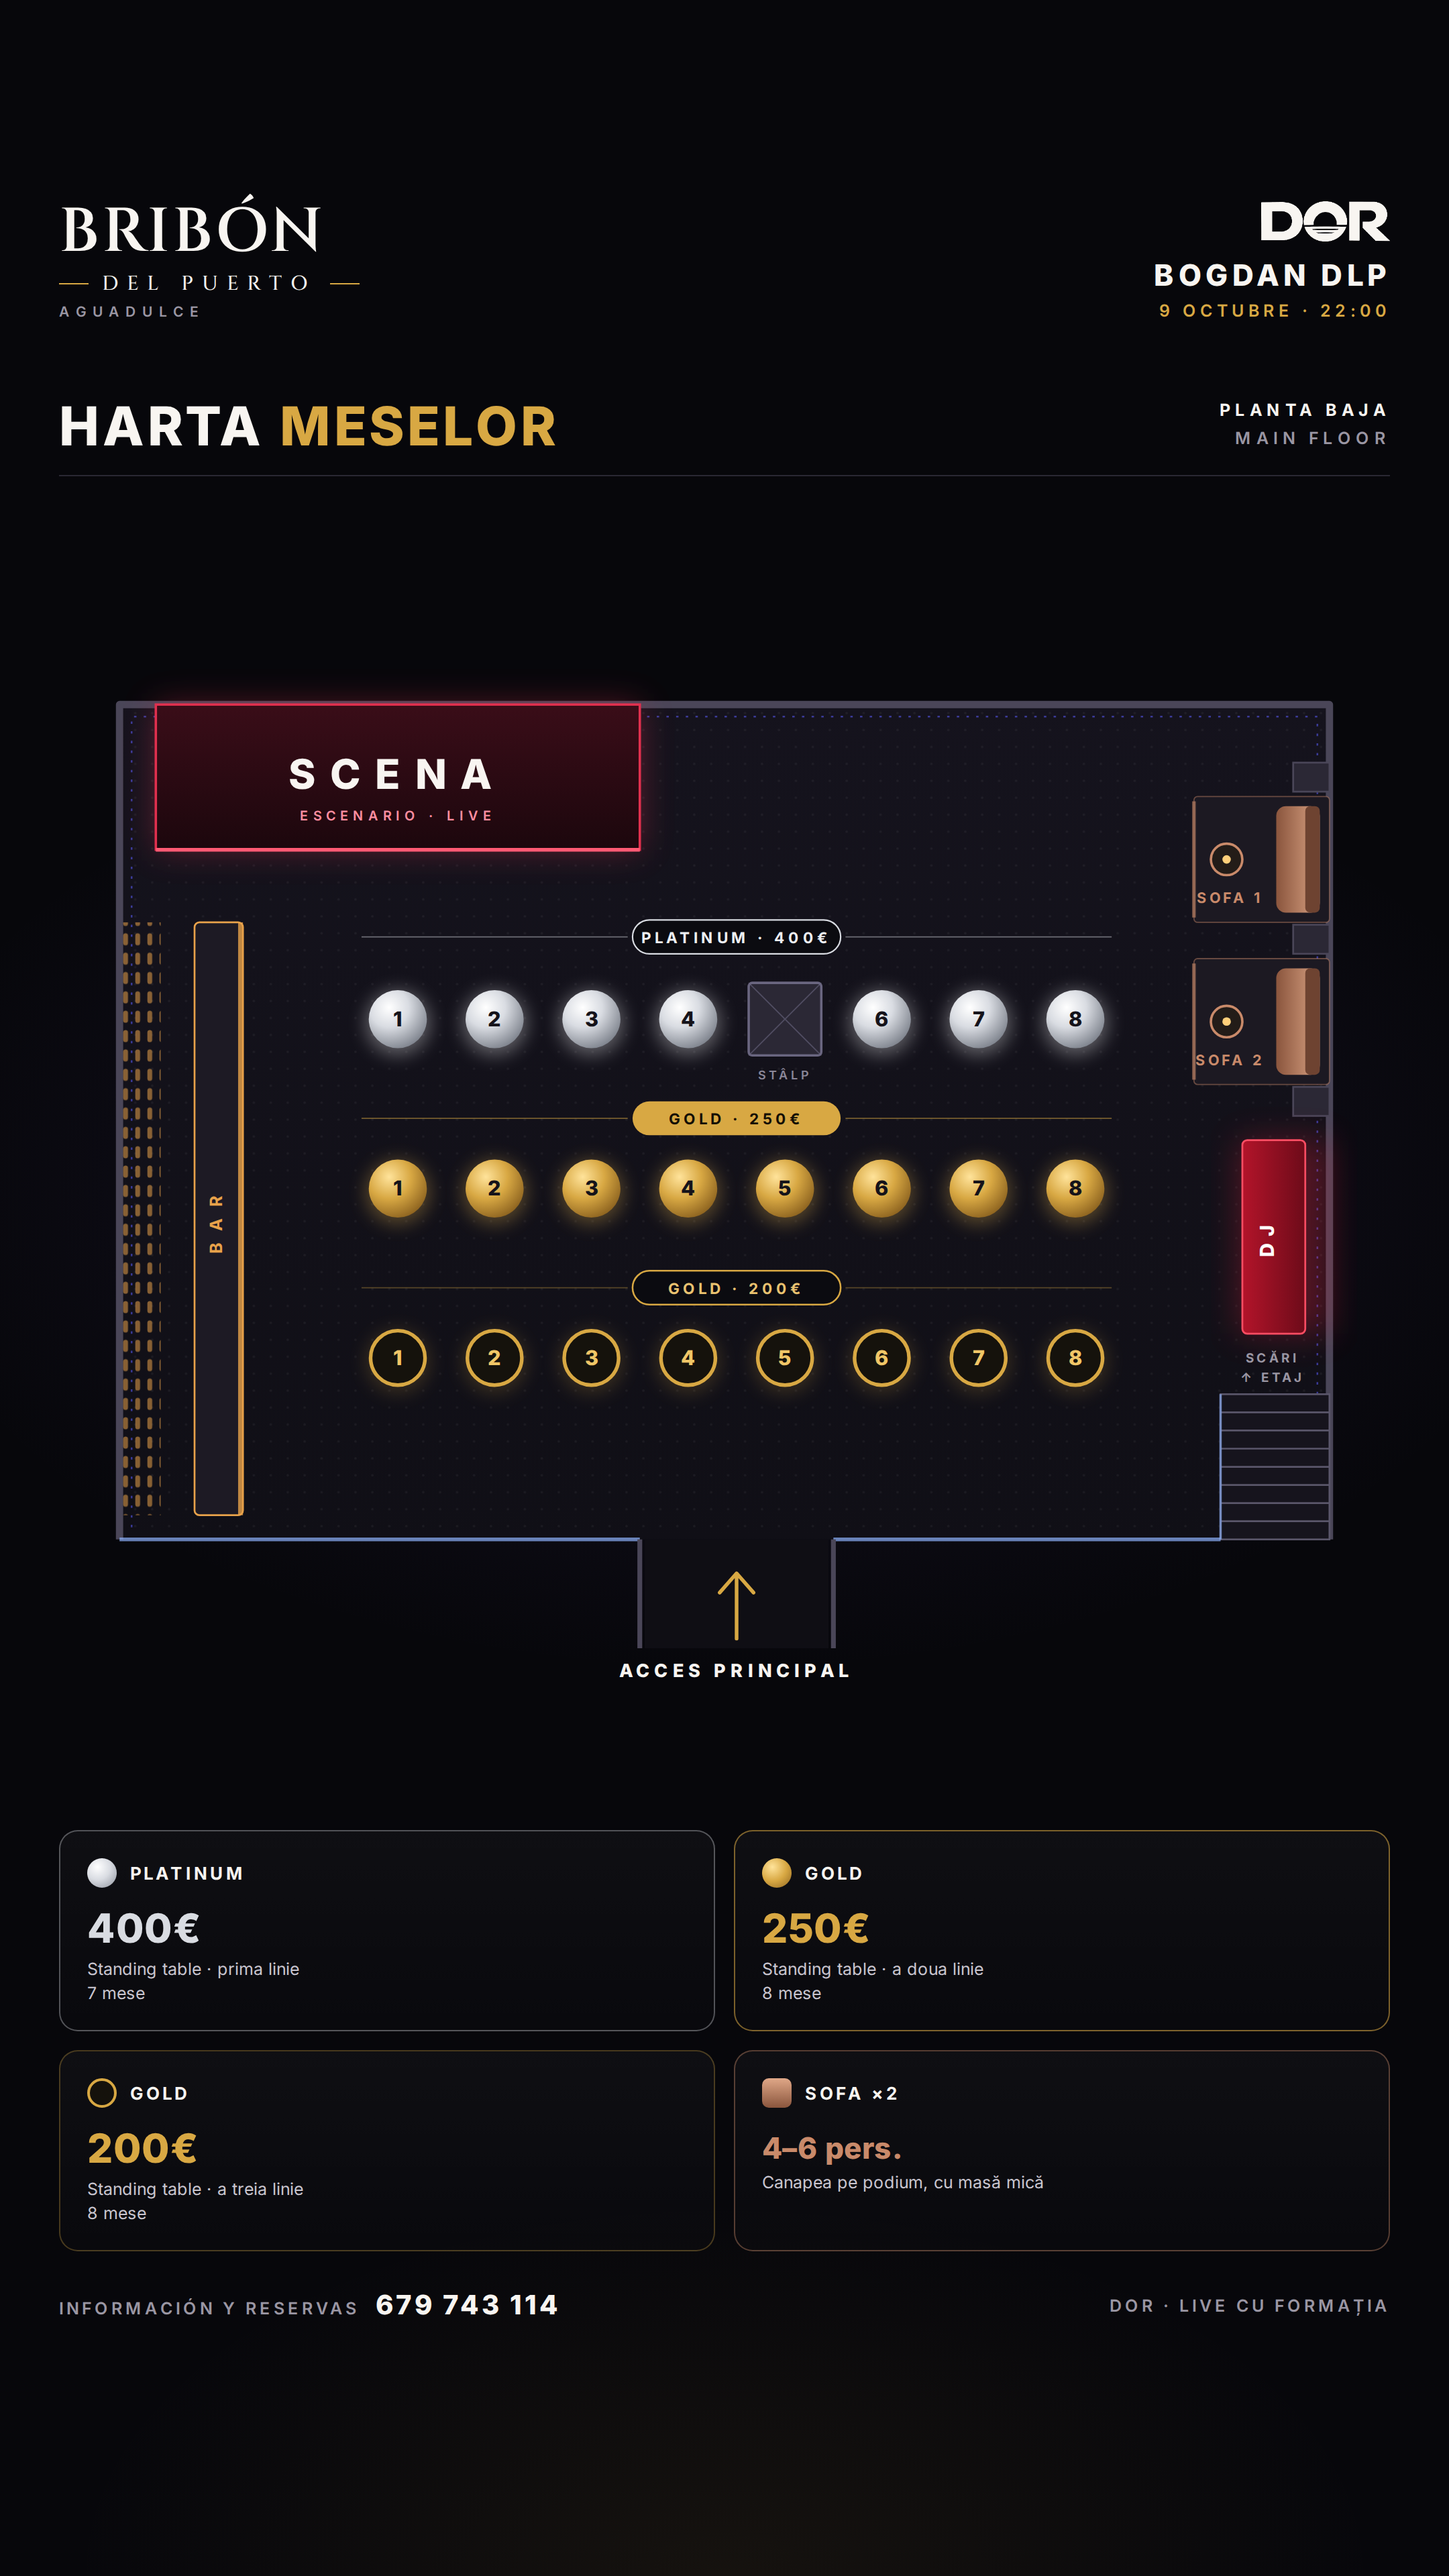
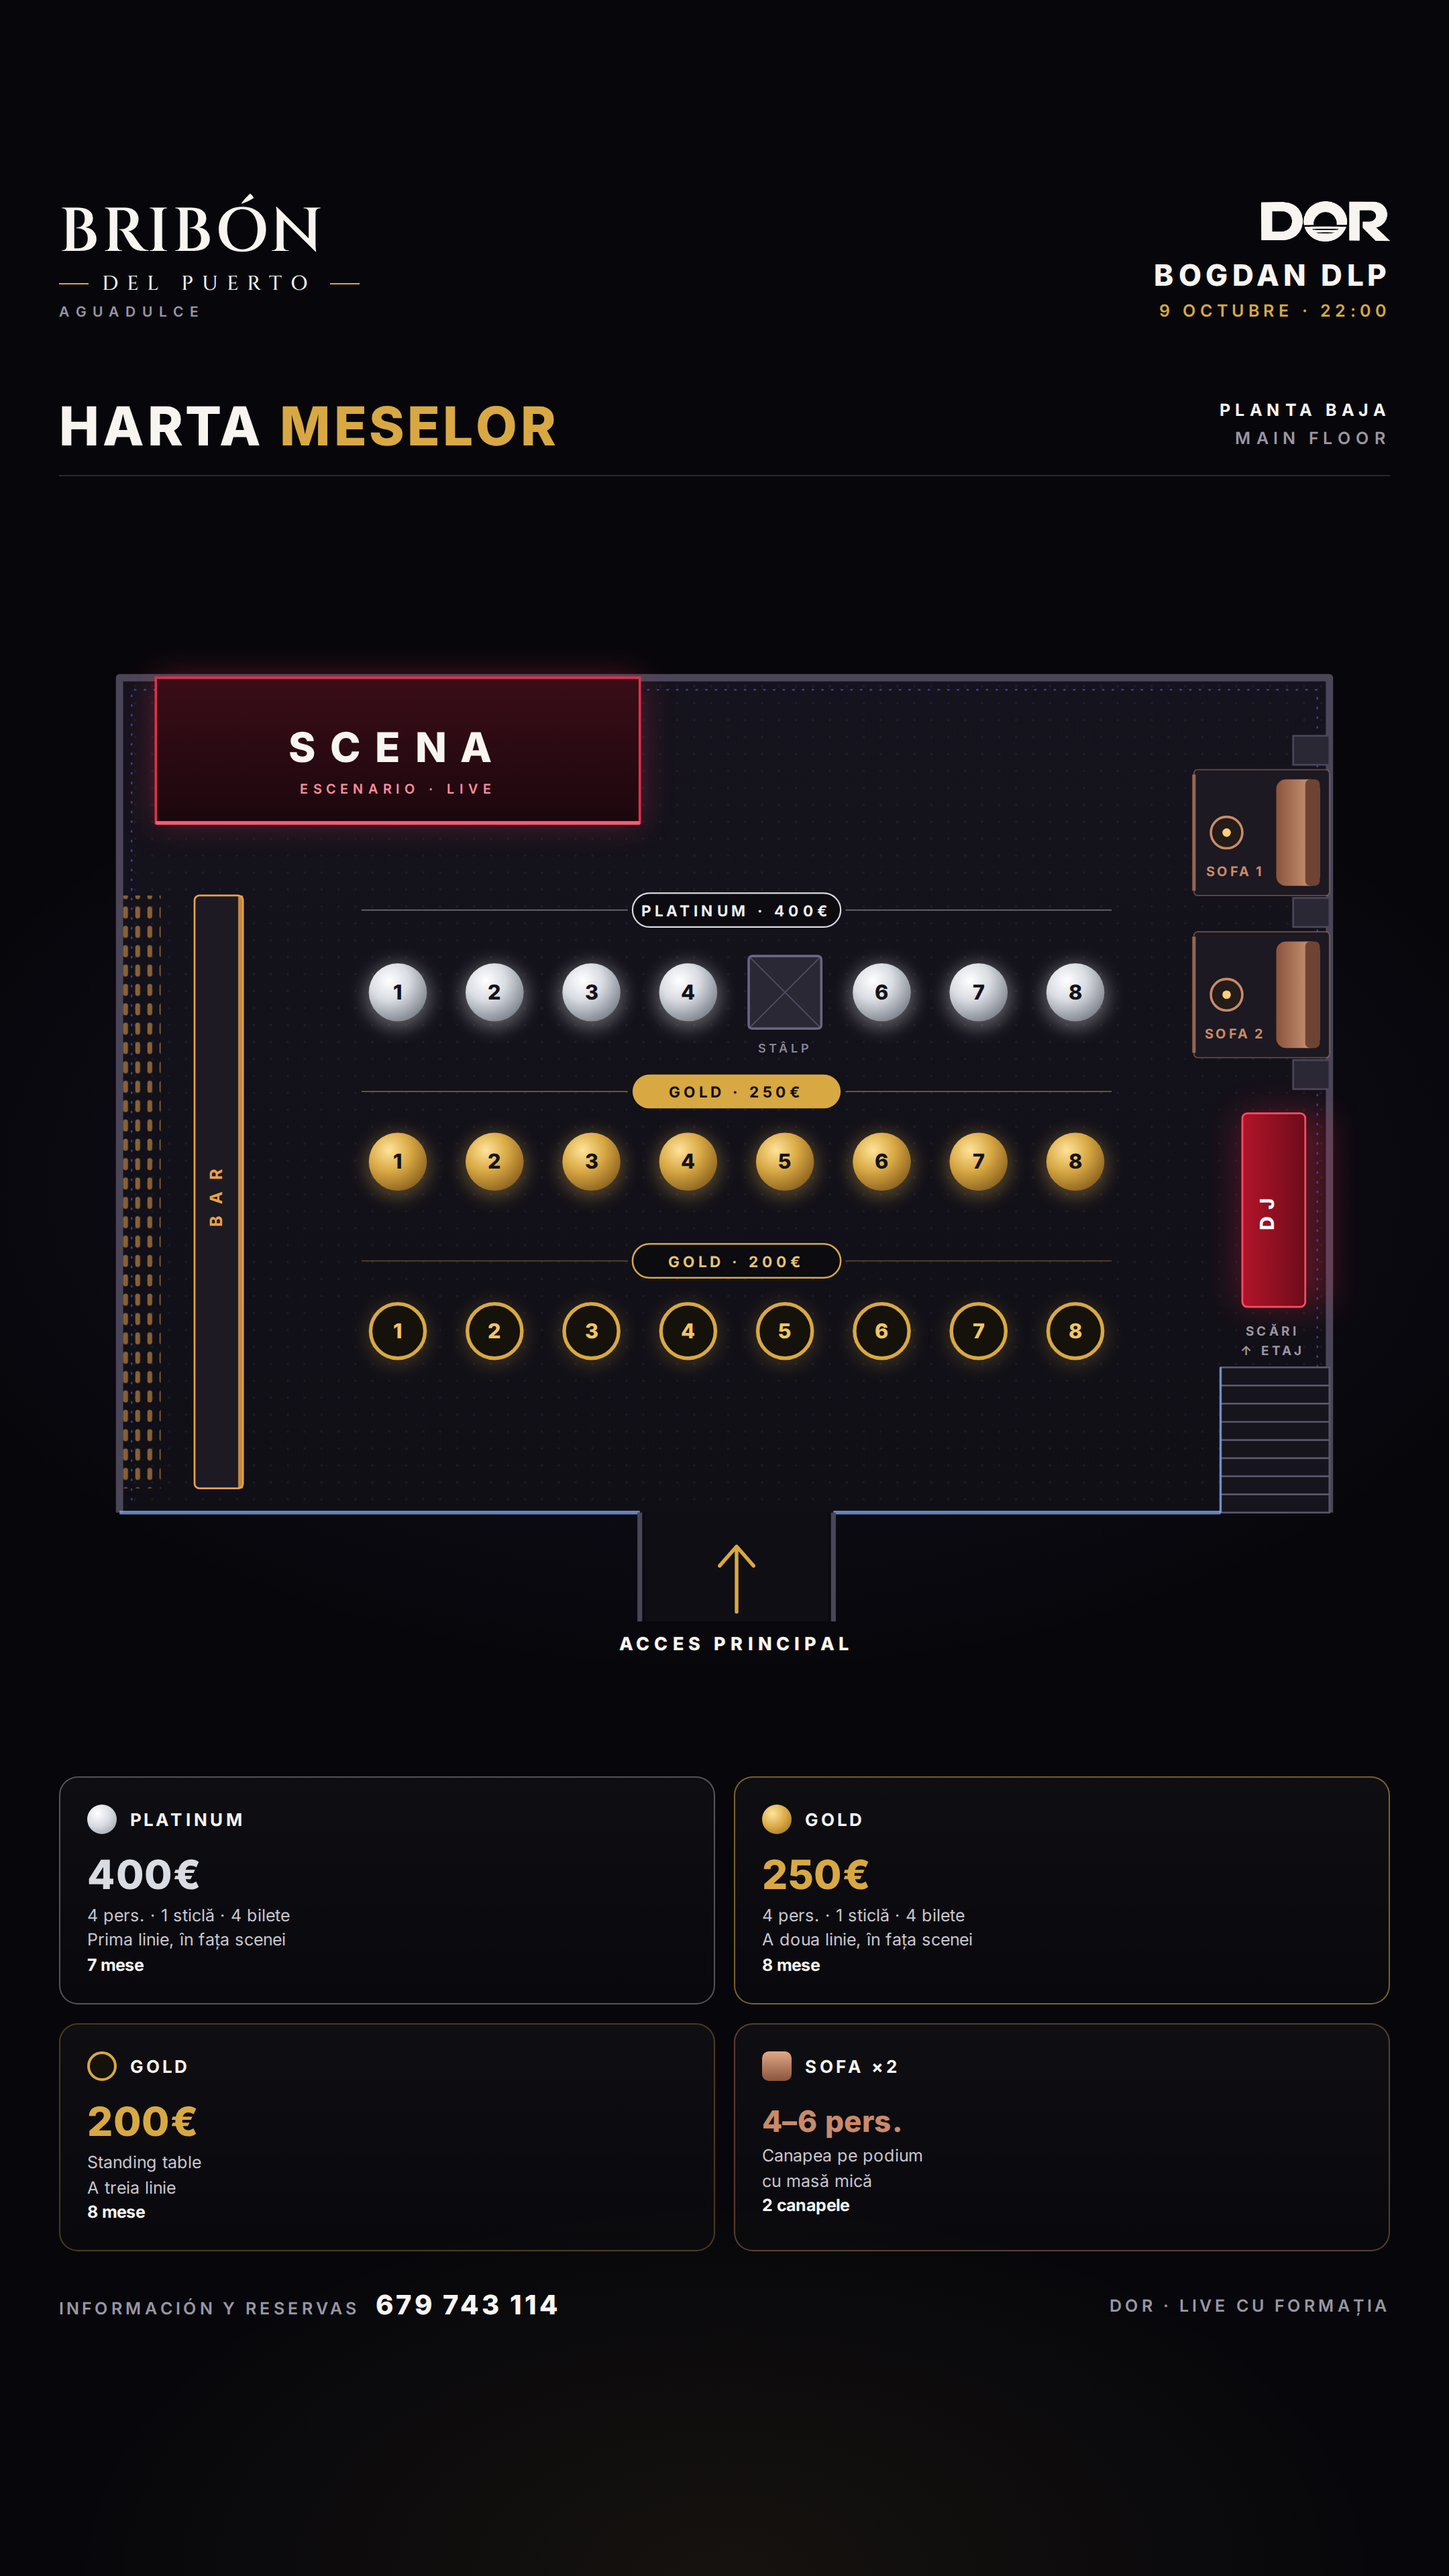
Harta meselor: pagina Etaj & Privé + detalii pachete pe parter
Platinum Privé 5.000€, VIP Balcony Sofa 500€, Balcony Standing Table 250€
(feed + story); Platinum/Gold 250 completate cu persoane/sticle/bilete.

Claude-Session: https://claude.ai/code/session_01CQvvotQmQH2aqorEYVjyXo

diff --git a/harta_mese/harta.html b/harta_mese/harta.html
@@ -51,7 +51,7 @@
   .card .sw{width:22px;height:22px;border-radius:50%;flex:none}
   .card .cat{font-weight:700;font-size:13px;letter-spacing:.16em}
   .card .p{font-weight:800;font-size:30px;margin-top:12px;letter-spacing:.01em}
-  .card .s{font-size:12.5px;color:#c9c5cf;margin-top:4px;line-height:1.45}
+  .card .s{font-size:12.5px;color:#c9c5cf;margin-top:4px;line-height:1.5} .card .s b{color:var(--ink);font-weight:700}
   .card.plat{border-color:rgba(217,220,226,.35)} .card.plat .p{color:var(--plat)}
   .card.g1{border-color:rgba(216,168,67,.55)} .card.g1 .p{color:var(--gold)}
   .card.g2{border-color:rgba(216,168,67,.3)} .card.g2 .p{color:var(--gold)}
@@ -68,6 +68,52 @@
   .story .legend{grid-template-columns:repeat(2,1fr);gap:14px}
   .story .card{padding:20px 20px 18px}
   .story footer{margin-top:28px}
+
+  /* ——— pagina 2: etaj & privé ——— */
+  .p2,.p2t{display:none}
+  .etaj .p1{display:none} .etaj .p2t{display:flex}
+  .etaj .p2{display:flex;flex-direction:column;flex:1;gap:18px;margin-top:30px;min-height:0}
+  .prive{position:relative;flex:1;border-radius:22px;padding:40px 40px 36px;overflow:hidden;
+    border:1px solid rgba(233,215,176,.55);
+    background:radial-gradient(700px 380px at 85% 0%,rgba(233,215,176,.16),transparent 65%),
+               linear-gradient(180deg,#14110c,#0b0a08)}
+  .prive:before{content:"";position:absolute;inset:10px;border:1px solid rgba(233,215,176,.18);border-radius:15px;pointer-events:none}
+  .prive .tag{font-size:12.5px;font-weight:700;letter-spacing:.34em;color:var(--prive)}
+  .prive h2{font-family:Cinzel,serif;font-weight:600;font-size:64px;letter-spacing:.03em;line-height:1.02;margin-top:18px;color:#fbf3e2}
+  .prive .price{font-weight:800;font-size:66px;margin-top:18px;letter-spacing:.01em;
+    background:linear-gradient(180deg,#fff4d6,#d9bc84 60%,#a88450);-webkit-background-clip:text;background-clip:text;color:transparent}
+  .prive .kpis{display:flex;gap:14px;margin-top:26px}
+  .kpi{border:1px solid rgba(233,215,176,.35);border-radius:14px;padding:14px 20px;min-width:150px}
+  .kpi b{display:block;font-size:34px;font-weight:800;color:#fbf3e2;line-height:1}
+  .kpi span{display:block;font-size:11.5px;letter-spacing:.24em;color:var(--prive);margin-top:8px;font-weight:700}
+  .prive{display:grid;grid-template-columns:1.15fr 1fr;gap:36px;align-items:center}
+  .feat{display:flex;flex-direction:column;border-left:1px solid rgba(233,215,176,.25);padding-left:36px}
+  .feat div{padding:17px 0;border-bottom:1px solid rgba(233,215,176,.14);font-size:21px !important}
+  .feat div:last-child{border-bottom:0}
+  .story .prive{grid-template-columns:1fr;gap:10px;align-content:center}
+  .story .feat{border-left:0;padding-left:0;border-top:1px solid rgba(233,215,176,.25);margin-top:14px}
+  .feat div{display:flex;align-items:center;gap:12px;font-size:17px;font-weight:500;color:#eee6d6}
+  .feat div:before{content:"";width:8px;height:8px;transform:rotate(45deg);background:var(--prive);flex:none}
+  .duo{display:grid;grid-template-columns:1fr 1fr;gap:18px}
+  .pk{border-radius:20px;padding:26px 26px 24px;border:1px solid var(--line);background:linear-gradient(180deg,rgba(255,255,255,.04),rgba(255,255,255,.01))}
+  .pk .tag{font-size:11.5px;font-weight:700;letter-spacing:.3em}
+  .pk h3{font-weight:800;font-size:25px;letter-spacing:.06em;margin-top:12px;line-height:1.15}
+  .pk .price{font-weight:800;font-size:46px;margin-top:12px}
+  .pk .row{display:flex;gap:8px;margin-top:16px;flex-wrap:wrap}
+  .pk .row span{font-size:13px;font-weight:700;letter-spacing:.06em;padding:7px 12px;border-radius:99px;border:1px solid}
+  .pk .d{font-size:14.5px;color:#c9c5cf;margin-top:14px;line-height:1.5}
+  .pk.vip{border-color:rgba(183,124,255,.5);background:radial-gradient(420px 220px at 100% 0%,rgba(183,124,255,.16),transparent 70%),#0d0b12}
+  .pk.vip .tag,.pk.vip .price{color:var(--vip-sofa)} .pk.vip .row span{border-color:rgba(183,124,255,.45);color:#e3d0ff}
+  .pk.bal{border-color:rgba(111,140,255,.5);background:radial-gradient(420px 220px at 100% 0%,rgba(111,140,255,.16),transparent 70%),#0b0c13}
+  .pk.bal .tag,.pk.bal .price{color:var(--balcony)} .pk.bal .row span{border-color:rgba(111,140,255,.45);color:#d3dcff}
+  body:not(.story) .prive h2{font-size:86px}
+  body:not(.story) .prive .price{font-size:92px;margin-top:22px}
+  body:not(.story) .prive .kpi{padding:18px 24px;min-width:170px}
+  body:not(.story) .prive .kpi b{font-size:44px}
+  body:not(.story) .prive .tag{font-size:14px}
+  body:not(.story) .feat div{font-size:24px !important;padding:22px 0}
+  .story .p2 .duo{grid-template-columns:1fr}
+  .story .prive h2{font-size:60px}
 </style>
 </head>
 <body>
@@ -85,12 +131,12 @@
     </div>
   </header>
 
-  <div class="title">
+  <div class="title p1">
     <h1>HARTA <span>MESELOR</span></h1>
     <div class="fl"><b>PLANTA BAJA</b><br>MAIN FLOOR</div>
   </div>
 
-  <div class="plan">
+  <div class="plan p1">
 <svg viewBox="0 0 1100 880" xmlns="http://www.w3.org/2000/svg" font-family="Inter, sans-serif">
   <defs>
     <radialGradient id="plat" cx="35%" cy="30%" r="75%">
@@ -165,8 +211,8 @@
     <circle cx="965" cy="332" r="13" fill="#231c18" stroke="#c98a6a" stroke-width="2"/>
     <circle cx="965" cy="332" r="3.5" fill="#ffcf7a"/>
   </g>
-  <text x="968" y="234" text-anchor="middle" fill="#c98a6a" font-weight="700" font-size="12" letter-spacing="2.5">SOFA 1</text>
-  <text x="968" y="368" text-anchor="middle" fill="#c98a6a" font-weight="700" font-size="12" letter-spacing="2.5">SOFA 2</text>
+  <text x="972" y="234" text-anchor="middle" fill="#c98a6a" font-weight="700" font-size="11" letter-spacing="2">SOFA 1</text>
+  <text x="972" y="368" text-anchor="middle" fill="#c98a6a" font-weight="700" font-size="11" letter-spacing="2">SOFA 2</text>
 
   <!-- DJ -->
   <rect x="975" y="430" width="75" height="160" fill="#ff2040" opacity=".28" filter="url(#glowS)"/>
@@ -215,15 +261,53 @@
 </svg>
   </div>
 
-  <div class="legend">
+  <div class="legend p1">
     <div class="card plat"><div class="k"><div class="sw plat"></div><div class="cat">PLATINUM</div></div>
-      <div class="p">400€</div><div class="s">Standing table · prima linie<br>7 mese</div></div>
+      <div class="p">400€</div><div class="s">4 pers. · 1 sticlă · 4 bilete<br>Prima linie, în fața scenei<br><b>7 mese</b></div></div>
     <div class="card g1"><div class="k"><div class="sw g1"></div><div class="cat">GOLD</div></div>
-      <div class="p">250€</div><div class="s">Standing table · a doua linie<br>8 mese</div></div>
+      <div class="p">250€</div><div class="s">4 pers. · 1 sticlă · 4 bilete<br>A doua linie, în fața scenei<br><b>8 mese</b></div></div>
     <div class="card g2"><div class="k"><div class="sw g2"></div><div class="cat">GOLD</div></div>
-      <div class="p">200€</div><div class="s">Standing table · a treia linie<br>8 mese</div></div>
+      <div class="p">200€</div><div class="s">Standing table<br>A treia linie<br><b>8 mese</b></div></div>
     <div class="card sofa"><div class="k"><div class="sw sofa"></div><div class="cat">SOFA ×2</div></div>
-      <div class="p">4–6 pers.</div><div class="s">Canapea pe podium, cu masă mică</div></div>
+      <div class="p">4–6 pers.</div><div class="s">Canapea pe podium<br>cu masă mică<br><b>2 canapele</b></div></div>
+  </div>
+
+  <div class="title p2t">
+    <h1>ETAJ <span>&amp; PRIVÉ</span></h1>
+    <div class="fl"><b>PLANTA ALTA</b><br>BALCÓN · SALĂ PRIVATĂ</div>
+  </div>
+  <div class="p2">
+    <div class="prive">
+      <div class="lc"><div class="tag">EXPERIENȚA SUPREMĂ</div>
+      <h2>PLATINUM<br>PRIVÉ</h2>
+      <div class="price">5.000€</div>
+      <div class="kpis">
+        <div class="kpi"><b>20</b><span>PERSOANE</span></div>
+        <div class="kpi"><b>10</b><span>STICLE</span></div>
+      </div>
+      </div>
+      <div class="feat">
+        <div>Sală privată</div><div>În fața scenei</div>
+        <div>Ospătar dedicat</div><div>Baie privată</div>
+        <div>Terasă privată</div>
+      </div>
+    </div>
+    <div class="duo">
+      <div class="pk vip">
+        <div class="tag">ETAJ · SOFA</div>
+        <h3>VIP BALCONY SOFA</h3>
+        <div class="price">500€</div>
+        <div class="row"><span>6 PERS.</span><span>2 STICLE</span><span>6 BILETE</span></div>
+        <div class="d">Sofa la etaj, cu vedere către scenă</div>
+      </div>
+      <div class="pk bal">
+        <div class="tag">BALCON · STANDING</div>
+        <h3>BALCONY STANDING TABLE</h3>
+        <div class="price">250€</div>
+        <div class="row"><span>4 PERS.</span><span>1 STICLĂ</span><span>4 BILETE</span></div>
+        <div class="d">Masă înaltă la balcon, cu vedere către scenă</div>
+      </div>
+    </div>
   </div>
 
   <footer>
@@ -233,7 +317,7 @@
 </div>
 
 <script>
-  if (location.hash === '#story') document.body.classList.add('story');
+  for (const c of location.hash.slice(1).split(',')) if (c) document.body.classList.add(c);
   const g = document.getElementById('tables');
   const NS = 'http://www.w3.org/2000/svg';
   const xs = i => 560 + (i - 3.5) * 80;         // 8 poziții, aliniate pe cele 3 rânduri

diff --git a/harta_mese/render.js b/harta_mese/render.js
@@ -9,6 +9,8 @@ const { chromium } = require('playwright');
   const jobs = [
     { hash: '', w: 1080, h: 1350, out: 'harta_mese_planta_baja_1080x1350.png' },
     { hash: '#story', w: 1080, h: 1920, out: 'harta_mese_planta_baja_story_1080x1920.png' },
+    { hash: '#etaj', w: 1080, h: 1350, out: 'mese_etaj_prive_1080x1350.png' },
+    { hash: '#story,etaj', w: 1080, h: 1920, out: 'mese_etaj_prive_story_1080x1920.png' },
   ];
   for (const j of jobs) {
     const page = await browser.newPage({ viewport: { width: j.w, height: j.h }, deviceScaleFactor: 2 });
